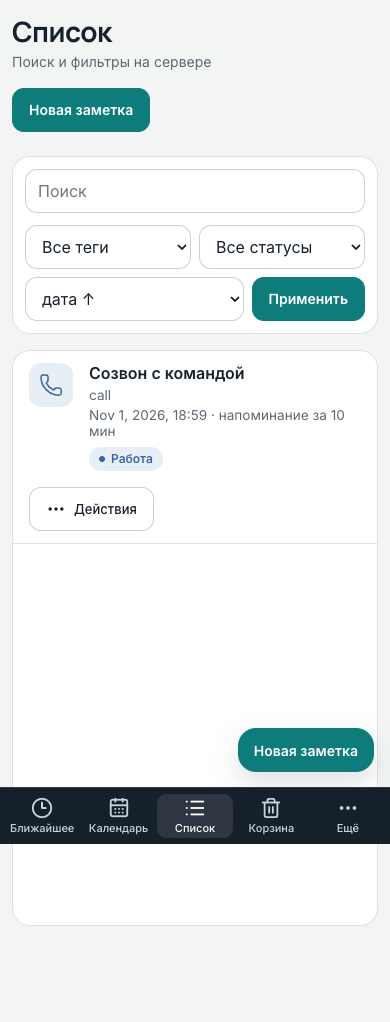
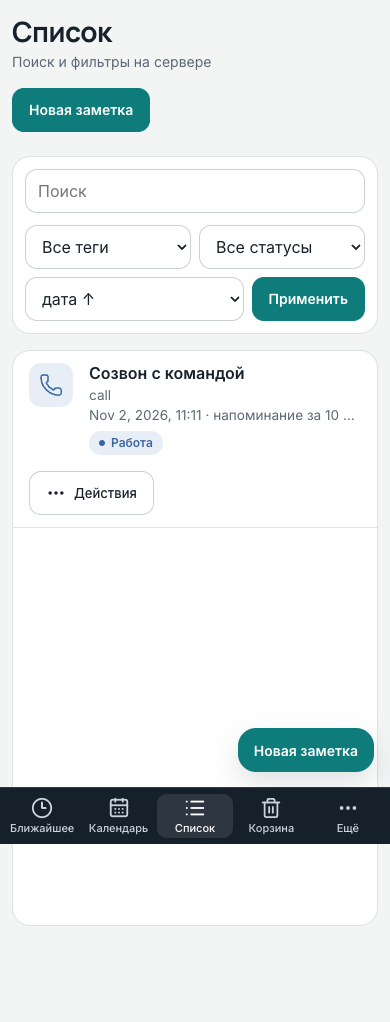
M18: e2e адаптивности и скрины list 1200/768/390

Changed region(s): [[0.1231, 0.3943, 0.8923, 0.5157], [0.0615, 0.455, 0.0923, 0.4853]]

diff --git a/web/e2e/m18_responsive.spec.ts b/web/e2e/m18_responsive.spec.ts
@@ -1,0 +1,252 @@
+import { expect, test, type Page } from "@playwright/test";
+import path from "node:path";
+import { fileURLToPath } from "node:url";
+import { apiCreateNote, registerUi, uniqueLogin } from "./helpers";
+
+const ROOT = path.resolve(path.dirname(fileURLToPath(import.meta.url)), "../..");
+const OUT = path.join(ROOT, "docs/design/screens");
+
+const WIDTHS = [1440, 1200, 900, 768, 600, 390] as const;
+
+type Box = { x: number; y: number; width: number; height: number };
+
+function overlapArea(a: Box, b: Box): number {
+  const ox = Math.max(0, Math.min(a.x + a.width, b.x + b.width) - Math.max(a.x, b.x));
+  const oy = Math.max(0, Math.min(a.y + a.height, b.y + b.height) - Math.max(a.y, b.y));
+  return ox * oy;
+}
+
+function within(inner: Box, outer: Box, pad = 1): boolean {
+  return (
+    inner.x >= outer.x - pad &&
+    inner.y >= outer.y - pad &&
+    inner.x + inner.width <= outer.x + outer.width + pad &&
+    inner.y + inner.height <= outer.y + outer.height + pad
+  );
+}
+
+async function noPageHScroll(page: Page) {
+  const m = await page.evaluate(() => ({
+    sw: document.documentElement.scrollWidth,
+    cw: document.documentElement.clientWidth,
+  }));
+  expect(m.sw, `h-scroll ${m.sw - m.cw}`).toBeLessThanOrEqual(m.cw + 1);
+}
+
+async function seedLongNote(page: Page, titlePrefix: string) {
+  const title = `${titlePrefix} ${"Заголовок".repeat(24)} очень длинный`;
+  const body = `${"Превью строки один с длинным текстом заметки. ".repeat(8)}\n${"Вторая строка превью тоже длинная. ".repeat(8)}\nтретья не должна быть видна целиком`;
+  await apiCreateNote(page.request, {
+    title,
+    body,
+    starts_at: new Date(Date.now() + 3600_000).toISOString().replace(/\.\d{3}Z$/, "Z"),
+    reminder_offsets: [10],
+    tag_ids: [],
+  });
+  return { title, body };
+}
+
+test("e2e_list_no_overlap_narrow", async ({ page }) => {
+  const login = uniqueLogin("m18ov");
+  await registerUi(page, login);
+  await page.request.post("/api/tags", {
+    data: { name: `M18Tag_${Date.now().toString(36)}`, color: "#3E6FB0" },
+  });
+  const tags = await (await page.request.get("/api/tags")).json();
+  const tagId = tags[0].id as string;
+  await apiCreateNote(page.request, {
+    title: `M18 overlap ${"X".repeat(80)}`,
+    body: `${"Y".repeat(120)}\n${"Z".repeat(120)}`,
+    starts_at: new Date(Date.now() + 7200_000).toISOString().replace(/\.\d{3}Z$/, "Z"),
+    reminder_offsets: [10, 60],
+    tag_ids: [tagId],
+  });
+  await page.evaluate(() => localStorage.setItem("notetaker.sidebarCollapsed", "0"));
+
+  for (const w of WIDTHS) {
+    await page.setViewportSize({ width: w, height: 900 });
+    await page.goto("/list");
+    const row = page.getByTestId("list-note-row").first();
+    await expect(row).toBeVisible({ timeout: 15_000 });
+
+    const boxes = await row.evaluate((el) => {
+      const q = (sel: string) => el.querySelector(sel);
+      const box = (node: Element | null) => {
+        if (!node) return null;
+        const r = node.getBoundingClientRect();
+        return { x: r.x, y: r.y, width: r.width, height: r.height };
+      };
+      return {
+        row: box(el)!,
+        title: box(q('[data-testid="list-note-title"]')),
+        preview: box(q('[data-testid="list-note-preview"]')),
+        meta: box(q(".list-note-meta")),
+        tags: box(q(".list-tags")),
+        actions: box(q(".note-actions")),
+        illu: box(q(".note-illustration")),
+      };
+    });
+
+    expect(boxes.title && boxes.preview && boxes.meta && boxes.tags).toBeTruthy();
+    const parts: [string, Box][] = [
+      ["title", boxes.title!],
+      ["preview", boxes.preview!],
+      ["meta", boxes.meta!],
+      ["tags", boxes.tags!],
+    ];
+    if (boxes.actions && boxes.actions.width > 0) {
+      parts.push(["actions", boxes.actions]);
+    }
+    if (boxes.illu) parts.push(["illu", boxes.illu]);
+    for (const [name, b] of parts) {
+      expect(within(b, boxes.row), `${w}: ${name} outside row`).toBe(true);
+    }
+    for (let i = 0; i < parts.length; i++) {
+      for (let j = i + 1; j < parts.length; j++) {
+        const area = overlapArea(parts[i][1], parts[j][1]);
+        expect(area, `${w}: ${parts[i][0]}/${parts[j][0]} overlap=${area}`).toBeLessThanOrEqual(2);
+      }
+    }
+    await noPageHScroll(page);
+  }
+});
+
+test("e2e_list_text_truncates", async ({ page }) => {
+  const login = uniqueLogin("m18tr");
+  await registerUi(page, login);
+  await seedLongNote(page, "M18 trunc");
+  await page.evaluate(() => localStorage.setItem("notetaker.sidebarCollapsed", "0"));
+
+  for (const w of WIDTHS) {
+    await page.setViewportSize({ width: w, height: 900 });
+    await page.goto("/list");
+    await expect(page.getByTestId("list-note-row").first()).toBeVisible({ timeout: 15_000 });
+
+    const metrics = await page.evaluate(() => {
+      const title = document.querySelector('[data-testid="list-note-title"]') as HTMLElement | null;
+      const titleText = document.querySelector(".list-note-title-text") as HTMLElement | null;
+      const preview = document.querySelector(
+        '[data-testid="list-note-preview"]',
+      ) as HTMLElement | null;
+      const row = document.querySelector('[data-testid="list-note-row"]') as HTMLElement | null;
+      if (!title || !titleText || !preview || !row) return null;
+      const tCs = getComputedStyle(titleText);
+      const pCs = getComputedStyle(preview);
+      const lineH = parseFloat(pCs.lineHeight);
+      const lines =
+        Number.isFinite(lineH) && lineH > 0
+          ? Math.round(preview.clientHeight / lineH)
+          : Math.ceil(preview.clientHeight / 16);
+      return {
+        title: {
+          scrollW: title.scrollWidth,
+          clientW: title.clientWidth,
+          textScrollW: titleText.scrollWidth,
+          textClientW: titleText.clientWidth,
+          textOverflow: tCs.textOverflow,
+          whiteSpace: tCs.whiteSpace,
+          beyondRow: title.getBoundingClientRect().right - row.getBoundingClientRect().right,
+        },
+        preview: {
+          scrollW: preview.scrollWidth,
+          clientW: preview.clientWidth,
+          lineClamp: pCs.webkitLineClamp,
+          lines,
+        },
+      };
+    });
+    expect(metrics).toBeTruthy();
+    // Clipping container must not expand past its box (D-101).
+    expect(
+      metrics!.title.scrollW,
+      `${w}: title scrollW>${metrics!.title.clientW}`,
+    ).toBeLessThanOrEqual(metrics!.title.clientW + 1);
+    expect(metrics!.title.beyondRow, `${w}: title beyond row`).toBeLessThanOrEqual(1);
+    expect(metrics!.title.textOverflow).toBe("ellipsis");
+    expect(metrics!.title.whiteSpace).toBe("nowrap");
+    // Inner text is truncated (content wider than visible box).
+    expect(metrics!.title.textScrollW).toBeGreaterThan(metrics!.title.textClientW);
+    expect(
+      metrics!.preview.scrollW,
+      `${w}: preview scrollW>${metrics!.preview.clientW}`,
+    ).toBeLessThanOrEqual(metrics!.preview.clientW + 1);
+    expect(metrics!.preview.lineClamp).toBe("2");
+    expect(metrics!.preview.lines, `${w}: preview lines`).toBeLessThanOrEqual(2);
+    await noPageHScroll(page);
+  }
+});
+
+test("e2e_sidebar_content_no_overlap", async ({ page }) => {
+  const login = uniqueLogin("m18sb");
+  await registerUi(page, login);
+  await apiCreateNote(page.request, {
+    title: "M18 sidebar check",
+    body: "body",
+    starts_at: new Date(Date.now() + 3600_000).toISOString().replace(/\.\d{3}Z$/, "Z"),
+    reminder_offsets: [],
+    tag_ids: [],
+  });
+
+  for (const collapsed of ["0", "1"] as const) {
+    await page.evaluate(
+      (c) => localStorage.setItem("notetaker.sidebarCollapsed", c),
+      collapsed,
+    );
+    for (const w of WIDTHS) {
+      await page.setViewportSize({ width: w, height: 900 });
+      await page.goto("/list");
+      await expect(page.getByTestId("list-note-row").first()).toBeVisible({ timeout: 15_000 });
+
+      const hit = await page.evaluate(() => {
+        const side = document.querySelector('[data-testid="app-sidebar"]') as HTMLElement | null;
+        const main = document.querySelector(".app-main") as HTMLElement | null;
+        if (!side || !main) return { overlap: 0, sideDisplay: "missing" };
+        const cs = getComputedStyle(side);
+        if (cs.display === "none" || cs.visibility === "hidden") {
+          return { overlap: 0, sideDisplay: "none" };
+        }
+        const a = side.getBoundingClientRect();
+        const b = main.getBoundingClientRect();
+        const ox = Math.max(0, Math.min(a.right, b.right) - Math.max(a.left, b.left));
+        const oy = Math.max(0, Math.min(a.bottom, b.bottom) - Math.max(a.top, b.top));
+        return {
+          overlap: ox * oy,
+          sideDisplay: cs.display,
+          sideW: a.width,
+          mainX: b.x,
+        };
+      });
+      expect(hit.overlap, `${w} collapsed=${collapsed} overlap`).toBeLessThanOrEqual(1);
+      await noPageHScroll(page);
+    }
+  }
+});
+
+test("m18_list_screenshots_1200_768_390", async ({ page }) => {
+  const login = uniqueLogin("m18shot");
+  await registerUi(page, login);
+  await seedLongNote(page, "M18 shot");
+  await page.request.post("/api/tags", {
+    data: { name: `ShotTag_${Date.now().toString(36)}`, color: "#2F6B4B" },
+  });
+  const tags = await (await page.request.get("/api/tags")).json();
+  await apiCreateNote(page.request, {
+    title: "Короткая заметка со тегом",
+    body: "обычное превью",
+    starts_at: new Date(Date.now() + 5400_000).toISOString().replace(/\.\d{3}Z$/, "Z"),
+    reminder_offsets: [60],
+    tag_ids: [tags[0].id],
+  });
+  // Screenshots: product default (collapsed sidebar). Overlap tests above keep expanded.
+  await page.evaluate(() => localStorage.setItem("notetaker.sidebarCollapsed", "1"));
+
+  for (const w of [1200, 768, 390] as const) {
+    await page.setViewportSize({ width: w, height: w === 390 ? 844 : 900 });
+    await page.goto("/list");
+    await expect(page.getByTestId("list-note-row").first()).toBeVisible({ timeout: 15_000 });
+    await page.screenshot({
+      path: path.join(OUT, `list-${w}.png`),
+      fullPage: true,
+    });
+  }
+});

diff --git a/web/e2e/m7_ui.spec.ts b/web/e2e/m7_ui.spec.ts
@@ -30,8 +30,17 @@ async function ensureTag(
 async function gotoWeekWithTitle(page: import("@playwright/test").Page, title: string) {
   await page.goto("/calendar");
   await page.getByTestId("cal-view-week").click();
-  const card = () => page.getByTestId("tl-card").filter({ hasText: title });
-  await expect.poll(async () => card().count(), { timeout: 10_000 }).toBeGreaterThan(0);
+  // Cluster shows ≤4 cards; the sought title may live in "+N ещё" (D-102).
+  await expect
+    .poll(async () => page.getByTestId("tl-card").count(), { timeout: 10_000 })
+    .toBeGreaterThan(0);
+  const inCard = page.getByTestId("tl-card").filter({ hasText: title });
+  if ((await inCard.count()) > 0) return;
+  const overflow = page.getByTestId("tl-overflow-btn");
+  await expect(overflow).toBeVisible({ timeout: 5_000 });
+  await overflow.click();
+  await expect(page.getByTestId("tl-overflow-item").filter({ hasText: title })).toBeVisible();
+  await page.keyboard.press("Escape");
 }
 
 test("e2e_tags_visible_everywhere", async ({ page }) => {
